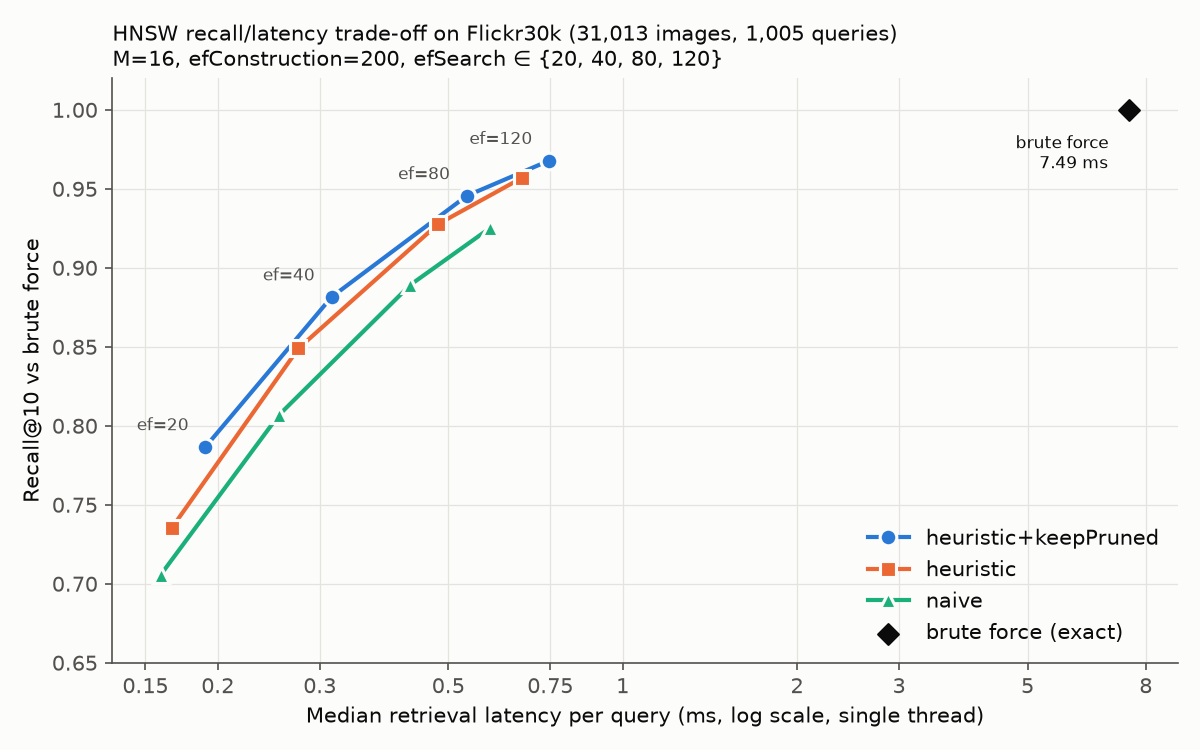
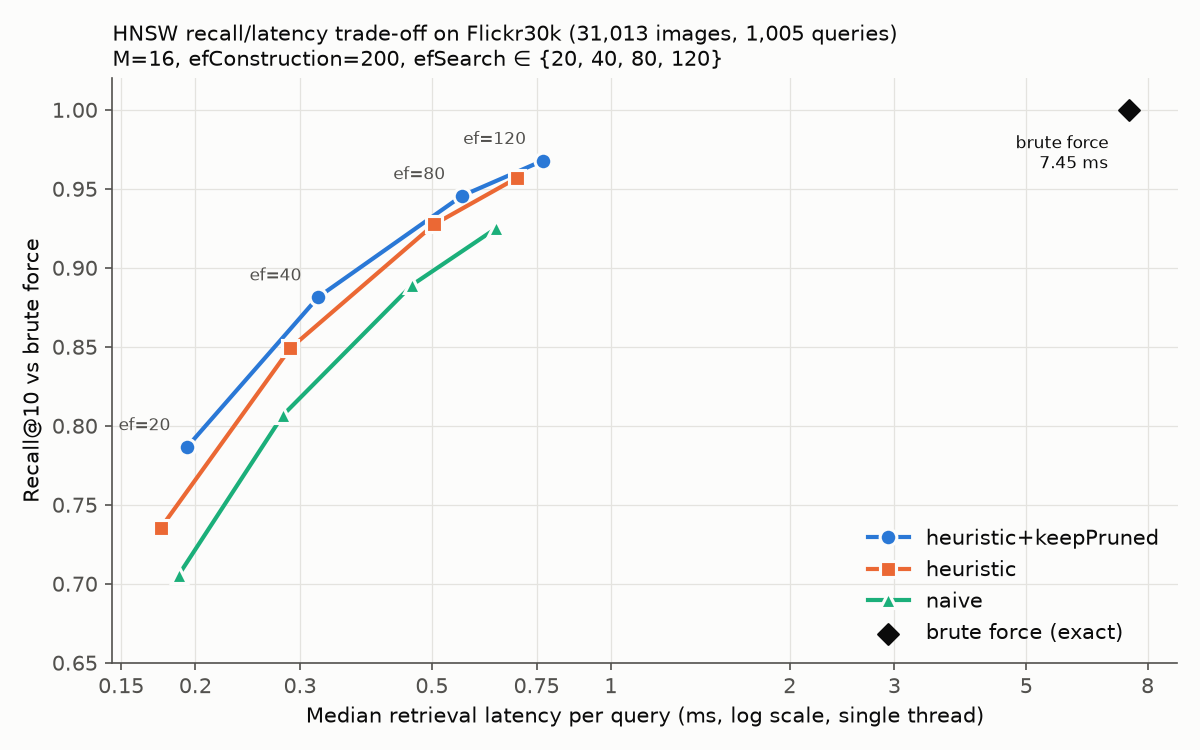
Refresh benchmark results after code rewrite

diff --git a/README.md b/README.md
@@ -11,8 +11,8 @@ exact brute-force search, and what does it cost in recall?
 
 | | Brute force (exact) | HNSW, efSearch = 80 | HNSW, efSearch = 20 |
 |---|---|---|---|
-| Median latency / query | 7.487 ms | 0.538 ms | 0.191 ms |
-| Speedup (median) | 1× | **13.9×** | 39.3× |
+| Median latency / query | 7.448 ms | 0.562 ms | 0.194 ms |
+| Speedup (median) | 1× | **13.3×** | 38.4× |
 | Recall@10 vs exact | 1.000 | **0.946** | 0.787 |
 | Distance evaluations / query | 31,013 | 1,384 | 547 |
 | Text→image R@1 (held-out captions) | 0.281 | 0.272 | 0.246 |
@@ -340,10 +340,10 @@ the project's own Gaussian generator.
 
 ## 5. Benchmark
 
-The numbers in this section come from the pinned benchmark run made before the
-simplification rewrite. The rewrite returns bit-identical search results (§4), so every
-recall, distance-count and quality number still holds. Latency and memory depend on the
-code, so re-run `sir_benchmark` (§9) to refresh them.
+The numbers in this section come from a pinned benchmark run of the current code (after
+the simplification rewrite). Every recall, distance-count and quality number is identical
+to the run made before the rewrite, as expected from bit-identical search results (§4).
+Latencies differ from that earlier run by a few percent (§8).
 
 ### 5.1 Protocol
 - Release build with exactly `-O3 -march=native -DNDEBUG`, single thread.
@@ -361,25 +361,25 @@ code, so re-run `sir_benchmark` (§9) to refresh them.
 - Environment (from `system.json`):
   - CPU: i7-13620H, 16 logical / 10 physical cores
   - RAM: 15.3 GiB
-  - OS: Fedora 44, kernel 7.2.5
+  - OS: Fedora 45, kernel 7.3.3
   - Compiler: GCC 16.2.1
   - CPU governor: `powersave` (intel_pstate)
   - On AC power
-  - Load average at start: 0.39
-  - Git commit: `9c14e0e`
+  - Load average at start: 0.25
+  - Git commit: `f2bd316`
   - HNSW seed: 42
 
 ### 5.2 Results (M = 16, efConstruction = 200)
 
 | Selection | efSearch | Median ms | p95 ms | Speedup | Recall@5 | Recall@10 | Dist evals/q | Build s |
 |---|---|---|---|---|---|---|---|---|
-| brute force | – | 7.4875 | 7.5737 | 1.0× | 1 | 1 | 31,013 | – |
-| heuristic + keepPruned (default) | 20 | 0.1905 | 0.2586 | 39.3× | 0.8094 | 0.7867 | 547 | 37.2 |
-| | 40 | 0.3144 | 0.4038 | 23.8× | 0.8973 | 0.8815 | 847 | |
-| | 80 | 0.5381 | 0.6638 | 13.9× | 0.9562 | 0.9456 | 1,384 | |
-| | 120 | 0.7465 | 0.9160 | 10.0× | 0.9765 | 0.9679 | 1,879 | |
-| heuristic | 80 | 0.4796 | 0.5830 | 15.6× | 0.9419 | 0.9276 | 1,216 | 24.9 |
-| naive | 80 | 0.4302 | 0.5628 | 17.4× | 0.9029 | 0.8893 | 1,103 | 19.9 |
+| brute force | – | 7.4484 | 7.5225 | 1.0× | 1 | 1 | 31,013 | – |
+| heuristic + keepPruned (default) | 20 | 0.1938 | 0.2628 | 38.4× | 0.8094 | 0.7867 | 547 | 42.5 |
+| | 40 | 0.3220 | 0.4104 | 23.1× | 0.8973 | 0.8815 | 847 | |
+| | 80 | 0.5618 | 0.6914 | 13.3× | 0.9562 | 0.9456 | 1,384 | |
+| | 120 | 0.7686 | 0.9436 | 9.7× | 0.9765 | 0.9679 | 1,879 | |
+| heuristic | 80 | 0.5046 | 0.6215 | 14.8× | 0.9419 | 0.9276 | 1,216 | 27.2 |
+| naive | 80 | 0.4635 | 0.6236 | 16.1× | 0.9029 | 0.8893 | 1,103 | 23.2 |
 
 Full sweep for every variant, mean latencies and fraction of perfect-recall queries:
 [`latency_recall.csv`](evaluation/benchmark_results/latency_recall.csv) and
@@ -389,16 +389,17 @@ Full sweep for every variant, mean latencies and fraction of perfect-recall quer
 The heuristic raises Recall@10 from **0.889 to 0.928**, and to **0.946** with kept pruned
 connections. At the same efSearch it costs more per query, because it evaluates more
 distances. Compared at *equal latency* (see the plot), both heuristic variants beat
-naive everywhere. For example, heuristic+keepPruned reaches 0.88 recall at 0.31 ms,
-while naive reaches 0.889 only at 0.43 ms. keepPruned beats the plain heuristic below
-about 0.45 ms, and the two curves converge above that. The heuristic keeps neighbours that point in
+naive everywhere. For example, heuristic+keepPruned reaches 0.88 recall at 0.32 ms,
+while naive reaches 0.889 only at 0.46 ms. keepPruned beats the plain heuristic by about
+0.008 recall near 0.29 ms; above about 0.5 ms the gap shrinks to about 0.003 and the two
+curves nearly converge. The heuristic keeps neighbours that point in
 different directions, which preserves the long-range links between clusters that a
 greedy walk needs. Naive selection spends its M links on a node's own tight cluster.
 
-### 5.4 Why the speedup (13.9×) is smaller than the work reduction (22.4×)
+### 5.4 Why the speedup (13.3×) is smaller than the work reduction (22.4×)
 At efSearch = 80, HNSW evaluates 22.4× fewer distances than brute force, but runs only
-13.9× faster. Per distance evaluation, brute force costs about 241 ns
-(7.487 ms / 31,013), while HNSW costs about 389 ns (0.538 ms / 1,384). HNSW pays for
+13.3× faster. Per distance evaluation, brute force costs about 240 ns
+(7.448 ms / 31,013), while HNSW costs about 406 ns (0.562 ms / 1,384). HNSW pays for
 random-access row reads (cache misses instead of a sequential stream), two heap
 operations per accepted neighbour, and visited-marker checks. Brute force streams the
 matrix linearly, which the hardware prefetcher handles well.
@@ -418,12 +419,12 @@ isolate.
 |---|---|---|
 | `EmbeddingStore::memoryBytes()` (shared by both backends) | 63,514,624 | 60.57 |
 | `BruteForceIndex::memoryBytes()` (id list) | 127,932 | 0.12 |
-| `HNSWIndex::memoryBytes()` (graph only) | 7,024,500 | 6.70 |
-| Peak RSS (VmHWM) after loading embeddings + queries | 70,295,552 | 67.04 |
-| Peak RSS at end of benchmark | 79,605,760 | 75.92 |
+| `HNSWIndex::memoryBytes()` (graph only) | 5,767,500 | 5.50 |
+| Peak RSS (VmHWM) after loading embeddings + queries | 70,426,624 | 67.16 |
+| Peak RSS at end of benchmark | 78,737,408 | 75.09 |
 
-So the HNSW graph adds about 11% on top of the vectors it indexes. After the rewrite the
-same graph reports `memoryBytes()` = 5,767,500 (5.50 MiB, about 9%), because the new array
+So the HNSW graph adds about 9% on top of the vectors it indexes. Before the rewrite the
+same graph reported `memoryBytes()` = 7,024,500 (6.70 MiB, about 11%); the new array
 classes carry less bookkeeping per node.
 
 `memoryBytes()` counts **reserved** capacity: 2M+1 ints per node on layer 0 and M+1 on
@@ -434,10 +435,11 @@ heuristic (18.6) and 3,311 KiB for naive (24.2). VmHWM also counts the C++ runti
 query file, the ground-truth result lists and allocator slack.
 
 ### 5.7 Query embedding time (reported separately, excluded from retrieval latency)
-The Python CLIP text encoder on CPU, including IPC, takes a median of **21.5 ms** and a
-p95 of 24.1 ms over 100 queries. That is roughly 40× the HNSW retrieval time. For an
+The Python CLIP text encoder on CPU, including IPC, takes a median of **25.6 ms** and a
+p95 of 38.8 ms over 100 queries (the encoder is not pinned, so its tail is noisier than
+the retrieval timings). That is roughly 45× the HNSW retrieval time. For an
 interactive user, end-to-end latency is dominated by the text encoder, not the index.
-At 31k images, even brute force (7.5 ms) is well under the encoder cost. The HNSW
+At 31k images, even brute force (7.4 ms) is well under the encoder cost. The HNSW
 advantage matters as the collection grows, because brute force scales linearly with N.
 
 ---
@@ -569,10 +571,13 @@ bookkeeping always equals a full recount.
 ## 8. Known limitations (honest list)
 
 1. **Benchmark noise.** The run was on a laptop with a desktop session open (IDE and a
-   chat app; load average 0.39), under the `powersave` governor with `intel_pstate`. P95
-   and mean are close to the median (brute force 7.49 / 7.57 / 7.50 ms), which suggests
-   noise is modest, but a quiet dedicated machine would be better. The numbers are from
-   one run; I did not repeat the whole benchmark to estimate run-to-run variance.
+   chat app; load average 0.25), under the `powersave` governor with `intel_pstate`. P95
+   and mean are close to the median (brute force 7.45 / 7.52 / 7.46 ms), which suggests
+   noise is modest, but a quiet dedicated machine would be better. An earlier run of the
+   pre-rewrite code gave latencies within about 5% of these (HNSW efSearch = 80: 0.538 ms
+   then, 0.562 ms now; brute force 7.487 ms then, 7.448 ms now). The code, kernel and
+   compiler build all changed between the two runs, so this is not a clean estimate of
+   run-to-run variance.
 2. **Near-tie fragility vs float64 NumPy.** In G7 the smallest adjacent-score gap was
    1.1e-6, only about 2.5× the float32 summation error (4.5e-7). On much larger query
    sets, occasional rank swaps against a float64 reference are possible. Swaps between

diff --git a/evaluation/benchmark_results/summary.md b/evaluation/benchmark_results/summary.md
@@ -1,16 +1,16 @@
 # Benchmark results
 
-Generated by `sir_benchmark` at 2026-09-30T17:34:55Z (git 9c14e0ee677320ac220ee11fecb61d84d5a43e56). All numbers measured in this run.
+Generated by `sir_benchmark` at 2026-11-14T15:04:23Z (git f2bd3164eb2a2fb651e5ca9bf75c7b56bdacbbf7). All numbers measured in this run.
 
 | Environment | |
 |---|---|
 | CPU | 13th Gen Intel(R) Core(TM) i7-13620H (16 logical CPUs, 10 physical cores) |
-| RAM | 15664.54 MiB |
-| OS | Fedora Linux 44 (KDE Plasma Desktop Edition), Linux 7.2.5-200.fc44.x86_64 x86_64 |
-| Compiler | GCC 16.2.1 20260819 (Red Hat 16.2.1-2) |
+| RAM | 15662.02 MiB |
+| OS | Fedora Linux 45 (KDE Plasma Desktop Edition), Linux 7.3.3-300.fc45.x86_64 x86_64 |
+| Compiler | GCC 16.2.1 20261029 (Red Hat 16.2.1-3) |
 | Flags | Release `-O3 -march=native -DNDEBUG` |
 | CPU governor / affinity | powersave / CPUs 4 |
-| Load average at start | 0.39 0.70 1.78 3/1267 41704 |
+| Load average at start | 0.25 0.59 0.59 1/1663 52098 |
 
 Protocol: 31013 images x 512 dims; 1005 queries (5 hand-written + held-out captions); 20 warm-up queries discarded; 5 timed repetitions per query (repetition-outer); per-query latency = median of its repetitions; statistics across queries. Single thread, scalar distance kernel shared by both backends. K = 10. HNSW M = 16, efConstruction = 200, seed = 42, last-in-edge protection on.
 
@@ -18,27 +18,27 @@ Protocol: 31013 images x 512 dims; 1005 queries (5 hand-written + held-out capti
 
 | Backend | Selection | efSearch | Median ms | p95 ms | Mean ms | Speedup | Recall@5 | Recall@10 | Queries w/ R@10=1 | Dist evals/query | Build s |
 |---|---|---|---|---|---|---|---|---|---|---|---|
-| brute_force | exact | - | 7.4875 | 7.5737 | 7.4971 | 1.0x | 1.0000 | 1.0000 | 100.0% | 31013 | 0.00 |
-| hnsw | heuristic+keepPruned | 20 | 0.1905 | 0.2586 | 0.1921 | 39.3x | 0.8094 | 0.7867 | 25.6% | 547 | 37.19 |
-| hnsw | heuristic+keepPruned | 40 | 0.3144 | 0.4038 | 0.3098 | 23.8x | 0.8973 | 0.8815 | 43.9% | 847 | 37.19 |
-| hnsw | heuristic+keepPruned | 80 | 0.5381 | 0.6638 | 0.5202 | 13.9x | 0.9562 | 0.9456 | 66.1% | 1384 | 37.19 |
-| hnsw | heuristic+keepPruned | 120 | 0.7465 | 0.9160 | 0.7185 | 10.0x | 0.9765 | 0.9679 | 76.7% | 1879 | 37.19 |
-| hnsw | heuristic | 20 | 0.1666 | 0.2285 | 0.1695 | 44.9x | 0.7646 | 0.7354 | 16.0% | 466 | 24.93 |
-| hnsw | heuristic | 40 | 0.2756 | 0.3484 | 0.2734 | 27.2x | 0.8716 | 0.8490 | 35.5% | 732 | 24.93 |
-| hnsw | heuristic | 80 | 0.4796 | 0.5830 | 0.4667 | 15.6x | 0.9419 | 0.9276 | 58.7% | 1216 | 24.93 |
-| hnsw | heuristic | 120 | 0.6698 | 0.8071 | 0.6470 | 11.2x | 0.9664 | 0.9569 | 71.5% | 1665 | 24.93 |
-| hnsw | naive | 20 | 0.1595 | 0.2339 | 0.1611 | 46.9x | 0.7303 | 0.7058 | 16.8% | 466 | 19.93 |
-| hnsw | naive | 40 | 0.2548 | 0.3457 | 0.2521 | 29.4x | 0.8261 | 0.8067 | 28.8% | 693 | 19.93 |
-| hnsw | naive | 80 | 0.4302 | 0.5628 | 0.4179 | 17.4x | 0.9029 | 0.8893 | 45.7% | 1103 | 19.93 |
-| hnsw | naive | 120 | 0.5892 | 0.7680 | 0.5718 | 12.7x | 0.9341 | 0.9250 | 56.1% | 1481 | 19.93 |
+| brute_force | exact | - | 7.4484 | 7.5225 | 7.4576 | 1.0x | 1.0000 | 1.0000 | 100.0% | 31013 | 0.00 |
+| hnsw | heuristic+keepPruned | 20 | 0.1938 | 0.2628 | 0.1960 | 38.4x | 0.8094 | 0.7867 | 25.6% | 547 | 42.48 |
+| hnsw | heuristic+keepPruned | 40 | 0.3220 | 0.4104 | 0.3179 | 23.1x | 0.8973 | 0.8815 | 43.9% | 847 | 42.48 |
+| hnsw | heuristic+keepPruned | 80 | 0.5618 | 0.6914 | 0.5445 | 13.3x | 0.9562 | 0.9456 | 66.1% | 1384 | 42.48 |
+| hnsw | heuristic+keepPruned | 120 | 0.7686 | 0.9436 | 0.7414 | 9.7x | 0.9765 | 0.9679 | 76.7% | 1879 | 42.48 |
+| hnsw | heuristic | 20 | 0.1749 | 0.2383 | 0.1771 | 42.6x | 0.7646 | 0.7354 | 16.0% | 466 | 27.22 |
+| hnsw | heuristic | 40 | 0.2886 | 0.3734 | 0.2884 | 25.8x | 0.8716 | 0.8490 | 35.5% | 732 | 27.22 |
+| hnsw | heuristic | 80 | 0.5046 | 0.6215 | 0.4926 | 14.8x | 0.9419 | 0.9276 | 58.7% | 1216 | 27.22 |
+| hnsw | heuristic | 120 | 0.6953 | 0.8369 | 0.6735 | 10.7x | 0.9664 | 0.9569 | 71.5% | 1665 | 27.22 |
+| hnsw | naive | 20 | 0.1876 | 0.2820 | 0.1918 | 39.7x | 0.7303 | 0.7058 | 16.8% | 466 | 23.18 |
+| hnsw | naive | 40 | 0.2807 | 0.4022 | 0.2820 | 26.5x | 0.8261 | 0.8067 | 28.8% | 693 | 23.18 |
+| hnsw | naive | 80 | 0.4635 | 0.6236 | 0.4562 | 16.1x | 0.9029 | 0.8893 | 45.7% | 1103 | 23.18 |
+| hnsw | naive | 120 | 0.6411 | 0.8540 | 0.6268 | 11.6x | 0.9341 | 0.9250 | 56.1% | 1481 | 23.18 |
 
 ## Neighbour selection at efSearch = 80
 
 | Selection | Recall@10 | Median ms | Dist evals/query | Build s | Graph bytes |
 |---|---|---|---|---|---|
-| heuristic+keepPruned | 0.9456 | 0.5381 | 1384 | 37.19 | 7024500 |
-| heuristic | 0.9276 | 0.4796 | 1216 | 24.93 | 7024500 |
-| naive | 0.8893 | 0.4302 | 1103 | 19.93 | 7024500 |
+| heuristic+keepPruned | 0.9456 | 0.5618 | 1384 | 42.48 | 5767500 |
+| heuristic | 0.9276 | 0.5046 | 1216 | 27.22 | 5767500 |
+| naive | 0.8893 | 0.4635 | 1103 | 23.18 | 5767500 |
 
 ## Memory
 
@@ -46,11 +46,11 @@ Protocol: 31013 images x 512 dims; 1005 queries (5 hand-written + held-out capti
 |---|---|---|
 | EmbeddingStore (shared by both backends) | 63514624 | 60.57 |
 | BruteForceIndex (id list) | 127932 | 0.12 |
-| HNSWIndex graph (heuristic+keepPruned) | 7024500 | 6.70 |
-| HNSWIndex graph (heuristic) | 7024500 | 6.70 |
-| HNSWIndex graph (naive) | 7024500 | 6.70 |
+| HNSWIndex graph (heuristic+keepPruned) | 5767500 | 5.50 |
+| HNSWIndex graph (heuristic) | 5767500 | 5.50 |
+| HNSWIndex graph (naive) | 5767500 | 5.50 |
 
-Peak RSS (VmHWM, whole process, monotone): after loading embeddings + queries 67.04 MiB; after brute-force timing 67.36 MiB; at end 75.92 MiB. VmHWM includes the C++ runtime, both embedding files, ground-truth result lists and allocator slack, so it is larger than the sum of memoryBytes().
+Peak RSS (VmHWM, whole process, monotone): after loading embeddings + queries 67.16 MiB; after brute-force timing 67.42 MiB; at end 75.09 MiB. VmHWM includes the C++ runtime, both embedding files, ground-truth result lists and allocator slack, so it is larger than the sum of memoryBytes().
 
 ## Absolute retrieval quality (held-out caption #1 -> its image)
 
@@ -72,4 +72,4 @@ Peak RSS (VmHWM, whole process, monotone): after loading embeddings + queries 67
 
 ## Query embedding latency (excluded from retrieval latency)
 
-Python CLIP text-encoder helper on CPU, including socket IPC, 100 queries: median 21.49 ms, p95 24.11 ms, mean 21.98 ms.
+Python CLIP text-encoder helper on CPU, including socket IPC, 100 queries: median 25.63 ms, p95 38.85 ms, mean 26.06 ms.
